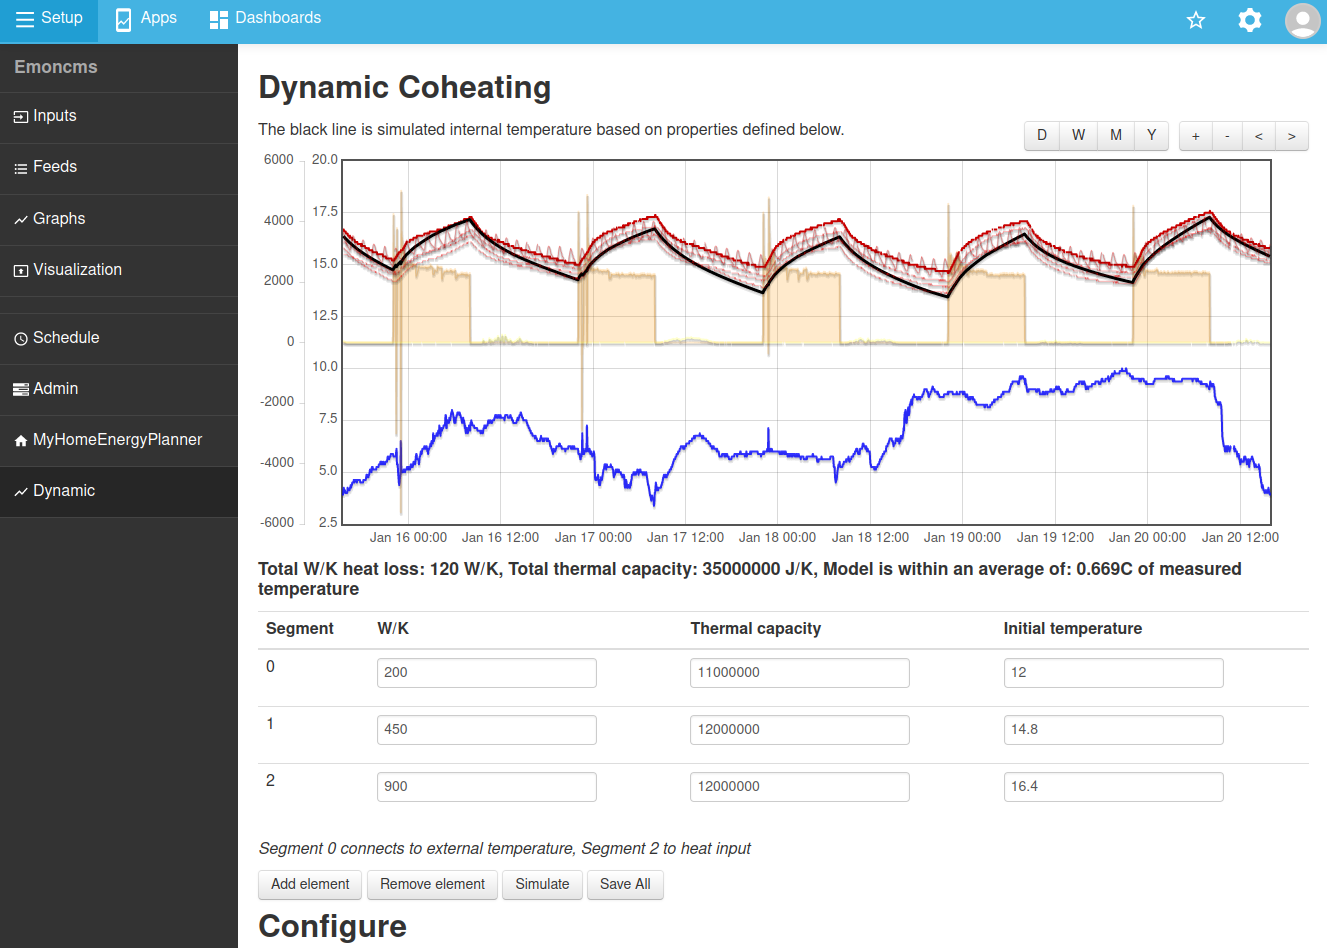
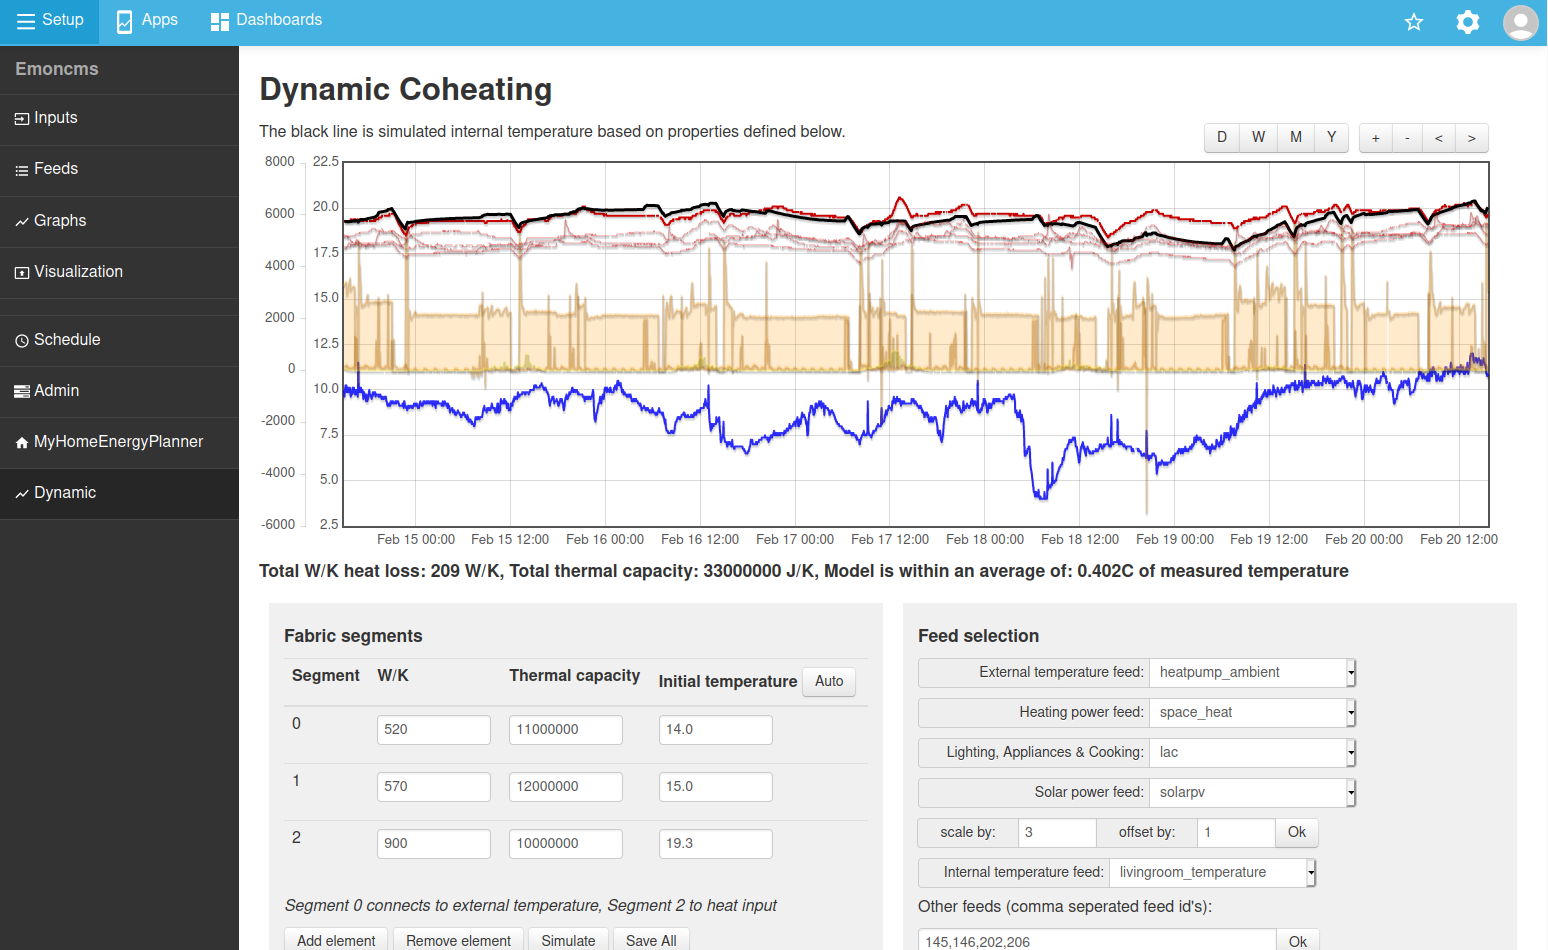
option to select lighting appliances and cooking feed auto selection of initial temperatures layout changes

diff --git a/dynamic_view.php b/dynamic_view.php
@@ -8,7 +8,7 @@
 <br>
 <h2>Dynamic Coheating</h2>
 
-<div id="graph-buttons" style="float:right">
+<div id="graph-buttons" style="float:right; margin-right:38px">
   <div class='btn-group'>
       <button class='btn graph-time' type='button' time='1'>D</button>
       <button class='btn graph-time' type='button' time='7'>W</button>
@@ -32,54 +32,68 @@
 
 <h4>Total W/K heat loss: <span id="total_wk"> </span> W/K, Total thermal capacity: <span id="total_thermal_capacity"></span> J/K, <span id="error"></span></h4>
 
-<table class="table">
-<tr><th>Segment</th><th>W/K</th><th>Thermal capacity</th><th>Initial temperature</th></tr>
-<tbody id="segment_config"></tbody>
-</table>
-<p><i>Segment 0 connects to external temperature, Segment <span class="numofsegments"></span> to heat input</i></p>
 
-<button id="add-element" class="btn">Add element</button>
-<button id="remove-element" class="btn">Remove element</button>
-<button id="simulate" class="btn">Simulate</button>
-<button id="save" class="btn">Save All</button>
-<h2>Configure</h2>
+<div style="width:50%; float:left">
+  <div style="background-color:#f0f0f0; margin:10px; padding:15px;">
+    <h4>Fabric segments</h4>
+    <table class="table">
+      <tr><th>Segment</th><th>W/K</th><th>Thermal capacity</th><th>Initial temperature <button id="auto_temp" class="btn">Auto</button></th></tr>
+      <tbody id="segment_config"></tbody>
+    </table>
+    <p><i>Segment 0 connects to external temperature, Segment <span class="numofsegments"></span> to heat input</i></p>
 
+    <button id="add-element" class="btn">Add element</button>
+    <button id="remove-element" class="btn">Remove element</button>
+    <button id="simulate" class="btn">Simulate</button>
+    <button id="save" class="btn">Save All</button>
+  </div>
+</div>
 
+<div style="width:50%; float:left">
+  <div style="background-color:#f0f0f0; margin:10px; padding:15px">
+    <h4>Feed selection</h4>
 
-<div class="input-prepend">
-  <span class="add-on" style="width:180px; text-align:right;" >External temperature feed: </span>
-  <select class="feed_selector" name="external_feed" style="width:208px"></select>
-</div><br>
+    <div class="input-prepend">
+      <span class="add-on" style="width:220px; text-align:right;" >External temperature feed: </span>
+      <select class="feed_selector" name="external_feed" style="width:208px"></select>
+    </div><br>
 
-<div class="input-prepend">
-  <span class="add-on" style="width:180px; text-align:right;" >Heating power feed: </span>
-  <select class="feed_selector" name="power_feed" style="width:208px"></select>
-</div><br>
+    <div class="input-prepend">
+      <span class="add-on" style="width:220px; text-align:right;" >Heating power feed: </span>
+      <select class="feed_selector" name="power_feed" style="width:208px"></select>
+    </div><br>
 
-<div class="input-prepend">
-  <span class="add-on" style="width:180px; text-align:right;" >Solar power feed: </span>
-  <select class="feed_selector" name="solar_feed" style="width:208px"></select>
-</div><br>
+    <div class="input-prepend">
+      <span class="add-on" style="width:220px; text-align:right;" >Lighting, Appliances & Cooking: </span>
+      <select class="feed_selector" name="lac_feed" style="width:208px"></select>
+    </div><br>
 
-<div class="input-prepend input-append">
-  <span class="add-on" style="width:90px"> scale by: </span>
-  <input id="solar_scale" type="text" style="width:65px"/>
-  <span class="add-on" style="width:90px"> offset by: </span>
-  <input id="solar_offset" type="text" style="width:65px"/>
-  <button id="solar_ok" class="btn" type="button">Ok</button>
-</div><br>
+    <div class="input-prepend">
+      <span class="add-on" style="width:220px; text-align:right;" >Solar power feed: </span>
+      <select class="feed_selector" name="solar_feed" style="width:208px"></select>
+    </div><br>
 
-<div class="input-prepend">
-  <span class="add-on" style="width:180px; text-align:right;" >Internal temperature feed: </span>
-  <select class="feed_selector" name="internal_feed" style="width:208px"></select>
-</div><br>
+    <div class="input-prepend input-append">
+      <span class="add-on" style="width:90px"> scale by: </span>
+      <input id="solar_scale" type="text" style="width:65px"/>
+      <span class="add-on" style="width:90px"> offset by: </span>
+      <input id="solar_offset" type="text" style="width:65px"/>
+      <button id="solar_ok" class="btn" type="button">Ok</button>
+    </div><br>
 
-<p>Other feeds (comma seperated feed id's):</p>
+    <div class="input-prepend">
+      <span class="add-on" style="width:180px; text-align:right;" >Internal temperature feed: </span>
+      <select class="feed_selector" name="internal_feed" style="width:208px"></select>
+    </div><br>
 
-<div class="input-append">
-<input id="other_feeds"  id="appendedInputButton" type="text" style="width:345px">
-<button id="other_feeds_ok" class="btn" type="button">Ok</button>
-</div><br>
+    <p>Other feeds (comma seperated feed id's):</p>
+
+    <div class="input-append">
+    <input id="other_feeds"  id="appendedInputButton" type="text" style="width:345px">
+    <button id="other_feeds_ok" class="btn" type="button">Ok</button>
+    </div><br>
+  </div>
+</div>
 
 <script>
   
@@ -87,10 +101,11 @@ var timeWindow = (3600000*24.0*1);	//Initial time window
 
 // Default settings
 var defaults = {
-  power_feed: 0,
-  solar_feed: 0,
-  external_feed: 0,
-  internal_feed: 0,
+  power_feed: false,
+  solar_feed: false,
+  external_feed: false,
+  internal_feed: false,
+  lac_feed: false,
   
   other_feeds: [],
   
@@ -121,7 +136,6 @@ view.npoints = 2000;
 view.calc_interval();
 
 var segment = settings.segments;
-
 var $graph_bound = $('#graph_bound');
 var $graph = $('#graph').width($graph_bound.width()).height($('#graph_bound').height());
 
@@ -129,10 +143,13 @@ var segment_config_html = "";
 for (i in segment) 
 {
   segment_config_html += "<tr><td>"+i+"</td>";
-  segment_config_html += "<td><input id='u"+i+"' type='text' value='"+segment[i].u+"'/ ></td>";
-  segment_config_html += "<td><input id='k"+i+"' type='text' value='"+segment[i].k+"'/ ></td>";
-  segment_config_html += "<td><input id='t"+i+"' type='text' value='"+segment[i].T+"'/ ></td></tr>";
+  segment_config_html += "<td><input id='u"+i+"' type='text' value='"+segment[i].u+"' style='width:100px' / ></td>";
+  segment_config_html += "<td><input id='k"+i+"' type='text' value='"+segment[i].k+"' style='width:100px' / ></td>";
+  segment_config_html += "<td><input id='t"+i+"' type='text' value='"+segment[i].T+"' style='width:100px' / ></td></tr>";
 }
+
+var initial_external_temp = false;
+var initial_internal_temp = false;
 
 $(".numofsegments").html(segment.length-1);
 $("#segment_config").html(segment_config_html);
@@ -142,11 +159,14 @@ data = {}
 load();
 
 function load() {
-    
+    initial_external_temp = false;
+    initial_internal_temp = false;
+
     data.power_feed = feed.get_data(settings.power_feed,view.start,view.end,view.interval,0,0);
     data.solar_feed = feed.get_data(settings.solar_feed,view.start,view.end,view.interval,0,0);
     data.external_feed = feed.get_data(settings.external_feed,view.start,view.end,view.interval,0,0);
     data.internal_feed = feed.get_data(settings.internal_feed,view.start,view.end,view.interval,0,0);
+    data.lac_feed = feed.get_data(settings.lac_feed,view.start,view.end,view.interval,0,0);
     simulate();
 } 
 
@@ -187,10 +207,17 @@ function simulate()
 
     if (data.external_feed[z][1]!=null) outside = data.external_feed[z][1];
     if (data.power_feed[z][1]!=null) heatinput = data.power_feed[z][1];
+    if (data.lac_feed[z][1]!=null) lac = data.lac_feed[z][1];
     if (data.solar_feed[z][1]!=null) solar = (settings.solarfactor * data.solar_feed[z][1]) + settings.solaroffset;
     if (data.internal_feed[z][1]!=null) ref = data.internal_feed[z][1];
     
+    if (initial_external_temp==false && outside!=undefined) initial_external_temp = outside;
+    if (initial_internal_temp==false && ref!=undefined) initial_internal_temp = ref;
+    
     if (settings.solarfeed>0) heatinput += solar;
+    
+    if (lac<0) lac = 0;
+    heatinput += lac
     
     // The following 14 lines of code is the actual simulation code
     // We calculate how much heat (in Watts) flow between the segments
@@ -228,6 +255,7 @@ function simulate()
   var feeds = [
       {data: data.external_feed, lines: { show: true, fill: false }, color: "rgba(0,0,255,0.8)"},
       {data: data.power_feed, yaxis: 2, lines: { show: true, fill: true, fillColor: "rgba(255,150,0,0.2)"}, color: "rgba(255,150,0,0.2)"},
+      {data: data.lac_feed, yaxis: 2, lines: { show: true, fill: true, fillColor: "rgba(255,150,0,0.2)"}, color: "rgba(255,150,0,0.2)"},
       {data: data.solar_feed, yaxis: 2, lines: { show: true, fill: false, fillColor: "rgba(255,150,0,0.2)"}, color: "rgba(255,255,0,0.2)"},
       {data: data.internal_feed, lines: { show: true, fill: false }, color: "rgba(200,0,0,1.0)"},
       {data: sim, lines: { show: true, fill: false, lineWidth: 3}, color: "rgba(0,0,0,1)"}
@@ -308,6 +336,7 @@ var feedlist = feed.list();
 $(".feed_selector[name=external_feed]").html(draw_feed_selector(settings.external_feed));
 $(".feed_selector[name=internal_feed]").html(draw_feed_selector(settings.internal_feed));
 $(".feed_selector[name=power_feed]").html(draw_feed_selector(settings.power_feed));
+$(".feed_selector[name=lac_feed]").html(draw_feed_selector(settings.lac_feed));
 $(".feed_selector[name=solar_feed]").html(draw_feed_selector(settings.solar_feed));
 $("#other_feeds").val(settings.other_feeds.join(","));
 $("#solar_scale").val(settings.solarfactor);
@@ -358,6 +387,17 @@ $("#save").click(function(){
   settings.end = view.end
   localStorage.setItem("dynamicmodel",JSON.stringify(settings));
   
+});
+
+$("#auto_temp").click(function(){
+
+  for (var i=0; i<segment.length; i++) {
+      let segment_temp = initial_internal_temp * (1.0 - (0.11*(segment.length-1-i)))
+  
+      $("#t"+i).val((segment_temp).toFixed(1));
+  }
+  
+  simulate();
 });
 
 function draw_feed_selector(selected_feed) {
